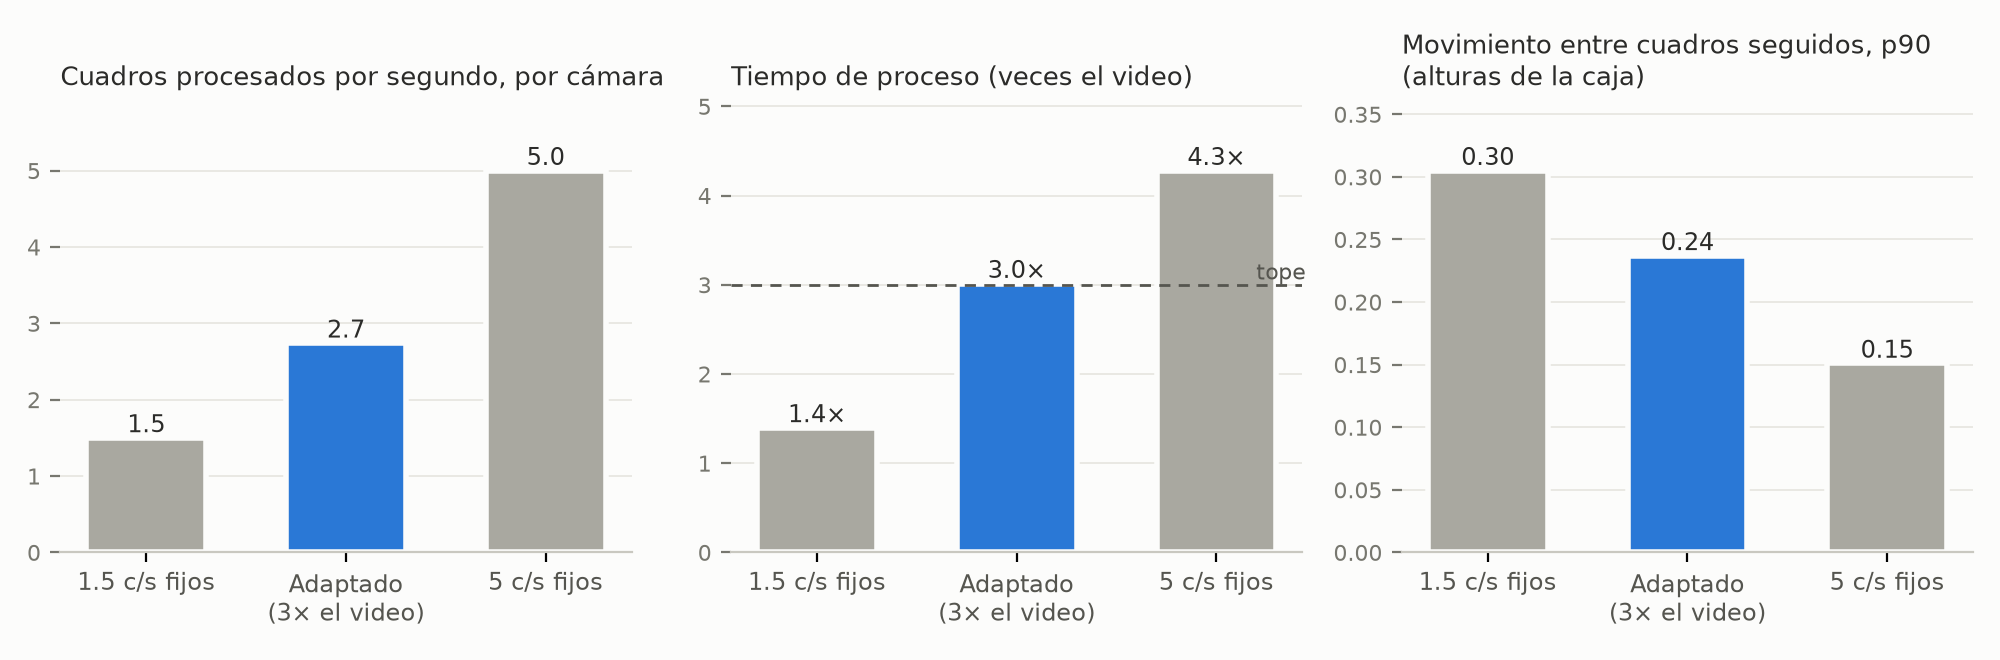
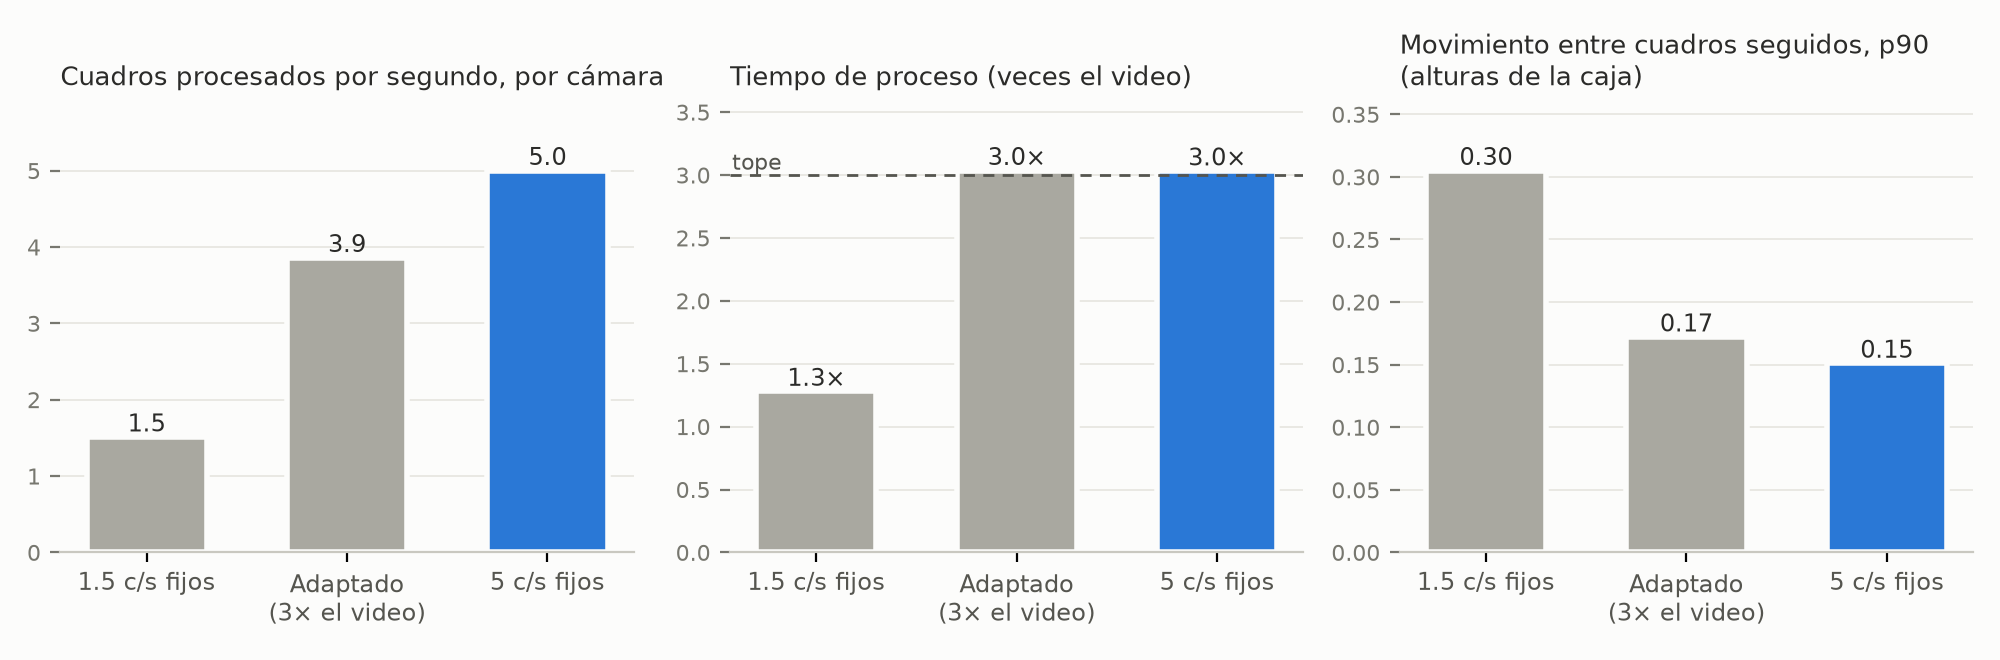
Informe: consistencia. Las siete cámaras se repiten con el lector NVDEC y la preparación de la pasada siguiente del sistema real: a 5 cuadros por segundo fijos tardan 3.0 veces el video sin saltar ningún cuadro elegido (cuadro, figura, análisis, resumen y capacidad del plan de negocio). Videos aclar

diff --git a/informe_aeropuerto_2026.tex b/informe_aeropuerto_2026.tex
@@ -215,8 +215,8 @@ mismo identificador a cada persona en las dos cámaras. Las pruebas de estrés
 sobre cinco pares de cámaras del mismo lugar mostraron que la GPU procesa unos
 16 cuadros por segundo por video con dos cámaras 1080p, que la estimación de
 género es lo que más carga la CPU y que siete cámaras de 60~fps se procesan
-completas a unos 2.7 cuadros por segundo por cámara en 3 veces la duración
-del video. El informe cierra con el plan de negocio de AeroVision, que
+completas a 5 cuadros por segundo por cámara en 3 veces la duración del
+video. El informe cierra con el plan de negocio de AeroVision, que
 lleva la misma tecnología a la medición de captación de tiendas y de audiencia
 de espacios publicitarios. El diseño incluye salvaguardas frente a menores de
 edad, re-identificación indirecta, retención de datos, transparencia, sesgo
@@ -1438,7 +1438,9 @@ muestra el mapa vacío con un aviso.
     \item El sistema muestra visitas, pass-by, permanencia, captación, densidad y su evolución en el tiempo.
 \end{enumerate}
 
-\textbf{Flujos alternativos:} El usuario puede comparar dos periodos.
+\textbf{Flujos alternativos:} El usuario marca hasta cinco rangos de tiempo
+en la línea de tiempo de la sesión; el tablero muestra solo esos rangos y
+compara sus indicadores con la sesión completa.
 
 \textbf{Postcondiciones:} Métricas agregadas por zona sin datos personales.
 
@@ -1931,7 +1933,8 @@ El Cuadro~\ref{tab:tracker_params} resume los parámetros configurables
 del seguidor y los valores utilizados en el piloto. Sus valores se
 definen en un archivo de configuración versionado junto con los pesos de
 los modelos y se ajustaron sobre los videos del piloto, por lo que deben
-revisarse al incorporar cámaras nuevas.
+revisarse al incorporar cámaras nuevas. La sección Videos usa valores más
+sensibles para videos de cualquier origen (Sección~\ref{sec:videos}).
 
 \begin{table}[H]
 \caption{Parámetros del seguimiento local}
@@ -3222,6 +3225,7 @@ el resultado es una homografía de píxeles a metros para ese teléfono.
 \end{algorithm}
 
 \subsection{Videos subidos: varias cámaras grabadas a la vez}
+\label{sec:videos}
 
 La sección Videos procesa grabaciones de cualquier origen, como si fueran
 cámaras en vivo: si el modelo no alcanza al video, salta cuadros. El Build se
@@ -3235,7 +3239,8 @@ ajustes más sensibles sobre la misma lógica de las Partes I y II:
     de unas 12 a unas 40 personas por cuadro.
     \item \textbf{Seguidor:} abre tracks desde 0.15 de confianza y personas de
     12~px de alto; en los cruces, la apariencia pesa 0.8 en la asignación (no
-    0.22) y un track sigue a una caja sin comparar apariencias solo si se
+    0.22), dentro de ella el vector de la ResNet18 pesa 0.8 frente al color
+    (no 0.20) y un track sigue a una caja sin comparar apariencias solo si se
     solapa con ella al menos 0.25.
     \item \textbf{Re-identificación:} en vez de YOLO26s-ReID, que estira cada
     recorte a un cuadrado, se promedian OSNet-AIN y PersonViT (ViT-S), ambos
@@ -3601,7 +3606,12 @@ nueve secciones, y cada rol ve solo las suyas:
     (Figura~\ref{fig:web-videos}).
     \item \textbf{Insights:} tablero de métricas, mapas de movimiento y de
     calor, rutas y flujos, filtrable por sesión y zona, con el tráfico por
-    franja y fecha, exportable a PDF y CSV y enviable por correo
+    franja y fecha, y una línea de tiempo de la sesión en la que se marcan
+    hasta cinco rangos (arrastrando, escribiendo el inicio y el fin o
+    haciendo clic en la línea): todo el tablero muestra solo esos rangos, los
+    mapas distinguen cada uno por color y una tabla compara sus indicadores
+    con la sesión completa. Es exportable a PDF y CSV, con los rangos y los
+    mapas de cada uno, y enviable por correo
     (Figuras~\ref{fig:web-insights} y~\ref{fig:web-insights-pdf}).
     \item \textbf{Ventas:} tickets reales o simulados, conversión por local
     elegido en el plano, cuándo se vende, emparejamiento de cada compra con la
@@ -4090,8 +4100,10 @@ tres análisis: \textit{solo multitracking}, \textit{solo género} y
 El modelo procesa como una cámara en vivo: si no alcanza al video, salta
 cuadros en lugar de atrasarse, por lo que la carga se lee en los cuadros por
 segundo que logra procesar y en la fracción de cuadros que salta. Las siete
-cámaras se procesaron con el mismo modelo y el análisis \textit{ambos}, pero
-sin el reloj del tiempo real, sobre sus primeros 2 minutos y con tres ritmos:
+cámaras se procesaron con el mismo modelo, el análisis \textit{ambos}, el
+mismo lector en la GPU y la misma preparación de la pasada siguiente mientras
+se procesa la anterior, pero sin el reloj del tiempo real, sobre sus primeros
+2 minutos y con tres ritmos:
 1.5 y 5 cuadros por segundo fijos, y uno adaptado en el que el video avanza 3
 veces más lento que el reloj y cada pasada toma el cuadro de ese instante,
 con un tope de 15 cuadros por segundo. En los tres se procesa cada cuadro
@@ -4153,10 +4165,11 @@ video, con 158~ms por cuadro, y saltó el 86\,\% de los cuadros; el modelo usó
 6.9 núcleos de CPU en promedio (7.5 en el p95), el equipo el 52\,\% de su CPU y
 la GPU el 48\,\%, con 2.8~GB de memoria de la GPU y 51~W. El
 Cuadro~\ref{tab:siete} resume las siete cámaras y la
-Figura~\ref{fig:siete-ritmos} compara los tres ritmos. Con el ritmo
-adaptado, 2 minutos de video tardaron 6 minutos (3.0 veces) y el modelo
-procesó 2.7 cuadros por segundo por cámara; una repetición dio 2.2, porque la
-duración de cada pasada varía con la carga del equipo.
+Figura~\ref{fig:siete-ritmos} compara los tres ritmos. A 5 cuadros por
+segundo fijos, 2 minutos de video tardaron 6 minutos (3.0 veces) y se
+procesaron los 600 cuadros elegidos de cada cámara. El ritmo adaptado tardó
+lo mismo pero procesó menos, 3.9 cuadros por segundo por cámara: cuando una
+pasada se demora, salta al cuadro que marca el reloj.
 
 \begin{table}[H]
 \caption{Siete cámaras 1080p a 60~fps procesadas a la vez (análisis
@@ -4169,21 +4182,21 @@ duración de cada pasada varía con la carga del equipo.
 \toprule
 \textbf{Medición} & \textbf{1.5 c/s fijos} & \textbf{Adaptado (3 veces el video)} & \textbf{5 c/s fijos} \\
 \midrule
-Cuadros procesados por segundo, por cámara & 1.5 & 2.7 & 5.0 \\
-Cuadros procesados, en total & 1\,253 & 2\,296 & 4\,193 \\
-Tiempo de proceso (veces el video) & 167~s (1.4) & 361~s (3.0) & 513~s (4.3) \\
-Milisegundos por pasada de las 7 cámaras & 767 & 894 & 702 \\
-\quad de ellos, seguimiento en la CPU & 409 & 594 & 412 \\
-Núcleos de CPU del modelo & 8.3 & 4.5 & 6.7 \\
-CPU de todo el equipo & 63\,\% & 39\,\% & 57\,\% \\
-Uso de la GPU & 28\,\% & 20\,\% & 26\,\% \\
-Memoria de la GPU & 3.4~GB & 3.4~GB & 3.4~GB \\
-Memoria RAM del modelo & 2.2~GB & 3.9~GB & 1.8~GB \\
-Potencia de la GPU & 36~W & 30~W & 35~W \\
-Personas contadas por cámara & 117 a 200 & 130 a 236 & 145 a 253 \\
-Movimiento entre cuadros seguidos, mediana (p90), en alturas de la caja & 0.055 (0.30) & 0.043 (0.24) & 0.030 (0.15) \\
-Detecciones con ID global & 76\,\% & 81\,\% & 85\,\% \\
-IDs vistos en más de una cámara & 323 & 354 & 405 \\
+Cuadros procesados por segundo, por cámara & 1.5 & 3.9 & 5.0 \\
+Cuadros procesados, en total & 1\,260 & 3\,234 & 4\,200 \\
+Tiempo de proceso (veces el video) & 153~s (1.3) & 363~s (3.0) & 364~s (3.0) \\
+Milisegundos por pasada de las 7 cámaras & 794 & 632 & 603 \\
+\quad de ellos, seguimiento en la CPU & 588 & 503 & 463 \\
+Núcleos de CPU del modelo & 7.9 & 7.6 & 11.0 \\
+CPU de todo el equipo & 61\,\% & 61\,\% & 77\,\% \\
+Uso de la GPU & 31\,\% & 28\,\% & 38\,\% \\
+Memoria de la GPU & 3.8~GB & 3.8~GB & 3.8~GB \\
+Memoria RAM del modelo & 4.3~GB & 4.0~GB & 4.7~GB \\
+Potencia de la GPU & 41~W & 36~W & 45~W \\
+Personas contadas por cámara & 122 a 201 & 142 a 241 & 141 a 248 \\
+Movimiento entre cuadros seguidos, mediana (p90), en alturas de la caja & 0.055 (0.31) & 0.033 (0.17) & 0.030 (0.15) \\
+Detecciones con ID global & 76\,\% & 82\,\% & 85\,\% \\
+IDs vistos en más de una cámara & 326 & 342 & 393 \\
 \bottomrule
 \end{tabular}
 \end{table}
@@ -4215,19 +4228,18 @@ persona entre dos cuadros procesados seguidos.}
     \item \textbf{La GPU no es el cuello de botella.} En los pares la GPU
     trabaja entre 50\,\% y 72\,\% y usa 2.8 de sus 8~GB, mientras la CPU es la
     que sube con el género y con la gente; con siete cámaras la GPU trabaja
-    solo entre 20 y 28\,\%.
-    \item \textbf{Siete cámaras de 60~fps se procesan completas a un ritmo
-    menor.} Sin el reloj del tiempo real, una pasada de las siete cámaras
-    toma de 0.7 a 0.9~s, dos tercios en el seguimiento en la CPU. Con un tope
-    de 3 veces la duración del video, el modelo procesa unos 2.7 cuadros por
-    segundo por cámara sin saltar ninguno por atraso; a 5 cuadros por segundo
-    el movimiento entre cuadros seguidos baja a la mitad (p90 de 0.15 alturas
-    de la caja frente a 0.30 a 1.5 cuadros por segundo), el 85\,\% de las
-    detecciones lleva ID global y más IDs se reconocen entre cámaras, pero
-    tarda 4.3 veces el video. Para siete cámaras conviene procesar por lotes y
-    no en tiempo real.
-    \item \textbf{Memoria y energía.} El modelo ocupa entre 1.4 y 3.9~GB de
-    RAM y la GPU consume entre 30 y 61~W; el equipo arranca una tanda en 2.5 a
+    solo entre 28 y 38\,\%.
+    \item \textbf{Siete cámaras de 60~fps se procesan completas a 5 cuadros
+    por segundo.} Sin el reloj del tiempo real, una pasada de las siete
+    cámaras toma 0.6~s, tres cuartos en el seguimiento en la CPU, y 2 minutos
+    de video se procesan en 3 veces su duración sin saltar ningún cuadro
+    elegido. Frente a 1.5 cuadros por segundo, el movimiento entre cuadros
+    seguidos baja a la mitad (p90 de 0.15 alturas de la caja frente a 0.31),
+    el 85\,\% de las detecciones lleva ID global (76\,\%) y más IDs se
+    reconocen entre cámaras. Para siete cámaras conviene procesar por lotes a
+    una tasa fija de 5 cuadros por segundo y no en tiempo real.
+    \item \textbf{Memoria y energía.} El modelo ocupa entre 1.4 y 4.7~GB de
+    RAM y la GPU consume entre 36 y 61~W; el equipo arranca una tanda en 2.5 a
     9~s.
 \end{itemize}
 
@@ -4553,8 +4565,8 @@ el modelo completo.
 
 La capacidad sale de las pruebas de estrés (Sección~\ref{sec:pruebas}): con
 el modelo completo, la RTX~4060 procesa unos 32 cuadros por segundo en total
-con dos cámaras 1080p, y unos 6 a 8 con siete cámaras 1080p de 60~fps a la
-vez y mucha gente, porque el seguimiento de cada cámara corre en la CPU; por
+con dos cámaras 1080p, y unos 12 con siete cámaras 1080p de 60~fps a la vez
+y mucha gente, porque el seguimiento de cada cámara corre en la CPU; por
 eso el lote se procesa de dos en dos cámaras. Tres horas pico a 5 cuadros por
 segundo son 54\,000 cuadros por cámara al día; diez cámaras de pantalla toman
 entonces unas 5 horas de proceso nocturno, dentro del día. Una cámara de
